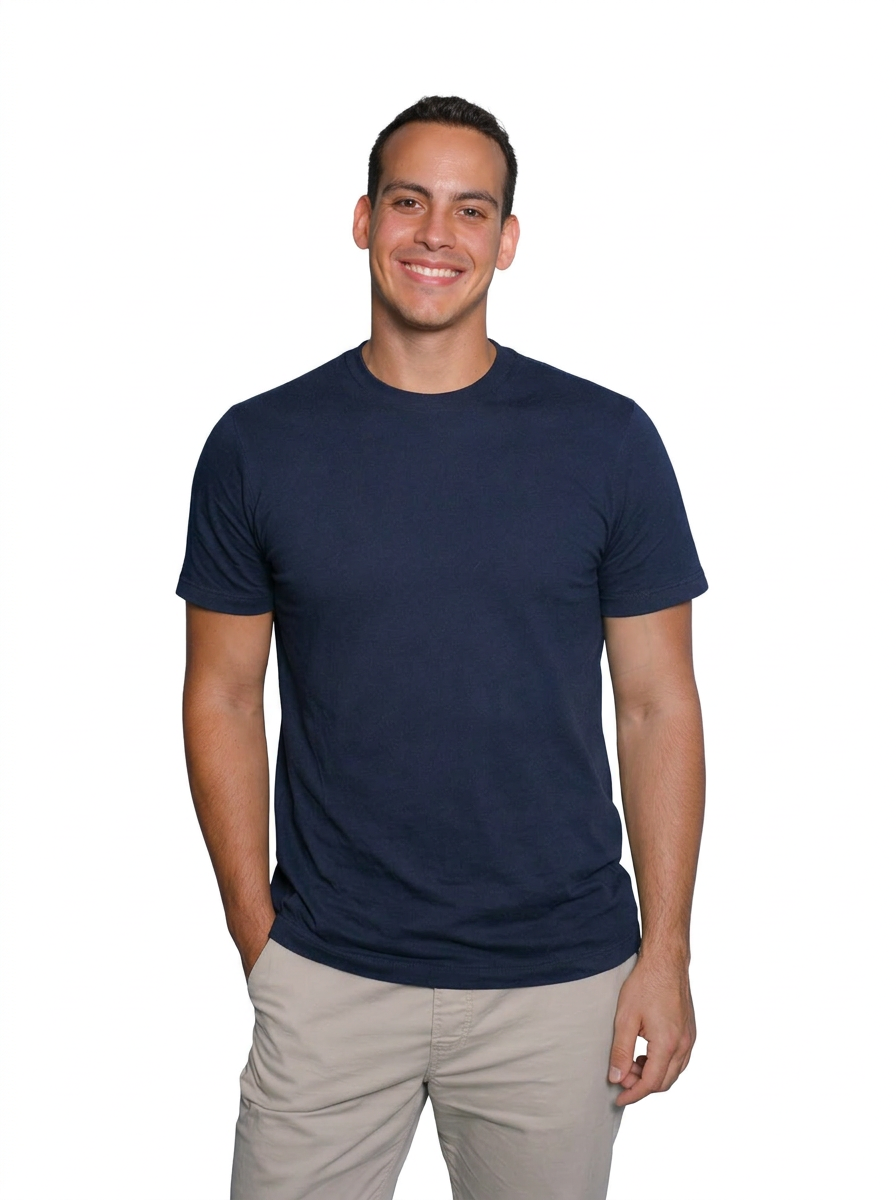
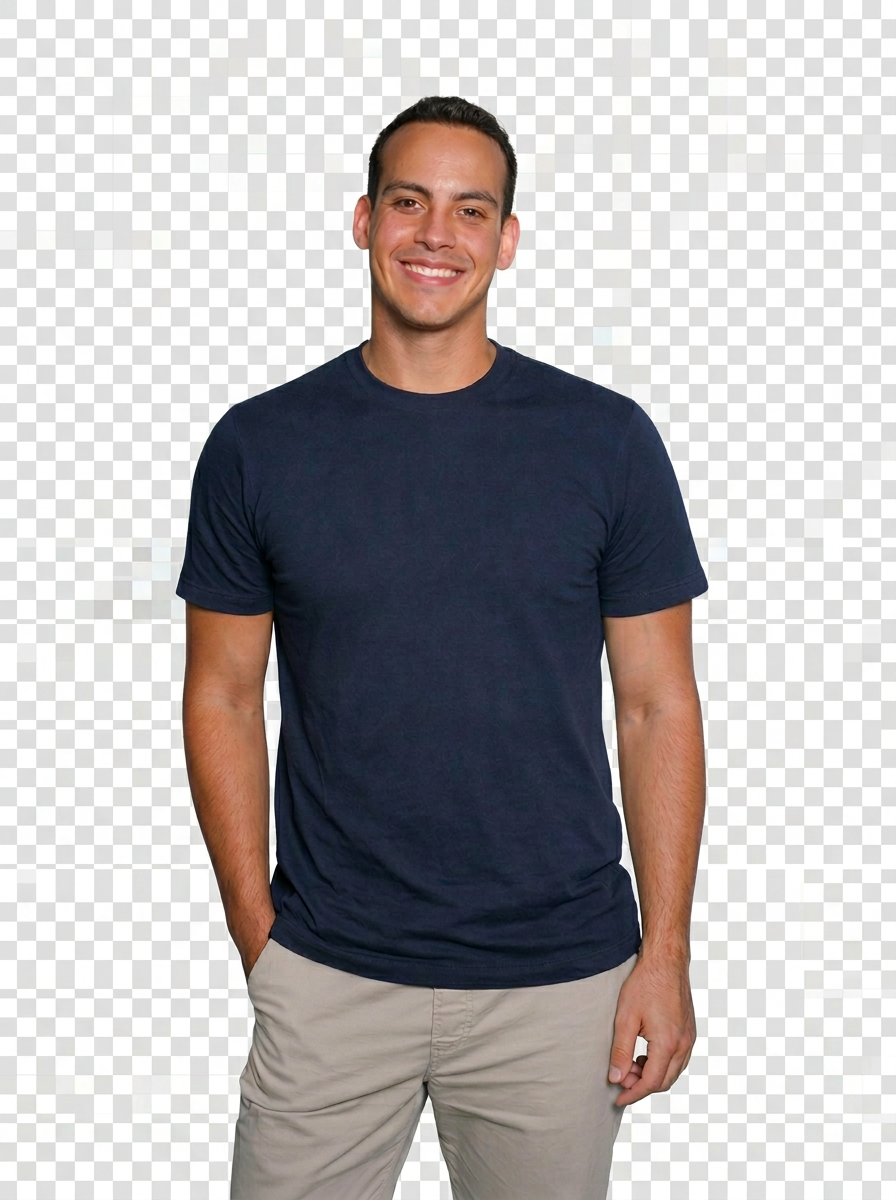
Changes

diff --git a/src/components/HeroSection.tsx b/src/components/HeroSection.tsx
@@ -79,7 +79,7 @@ const HeroSection = () => {
               src={profilePhoto}
               alt={title}
               className="relative h-[110%] object-contain object-bottom"
-              style={{ zIndex: 10, mixBlendMode: "darken" }}
+              style={{ zIndex: 10 }}
             />
           </div>
         </div>
